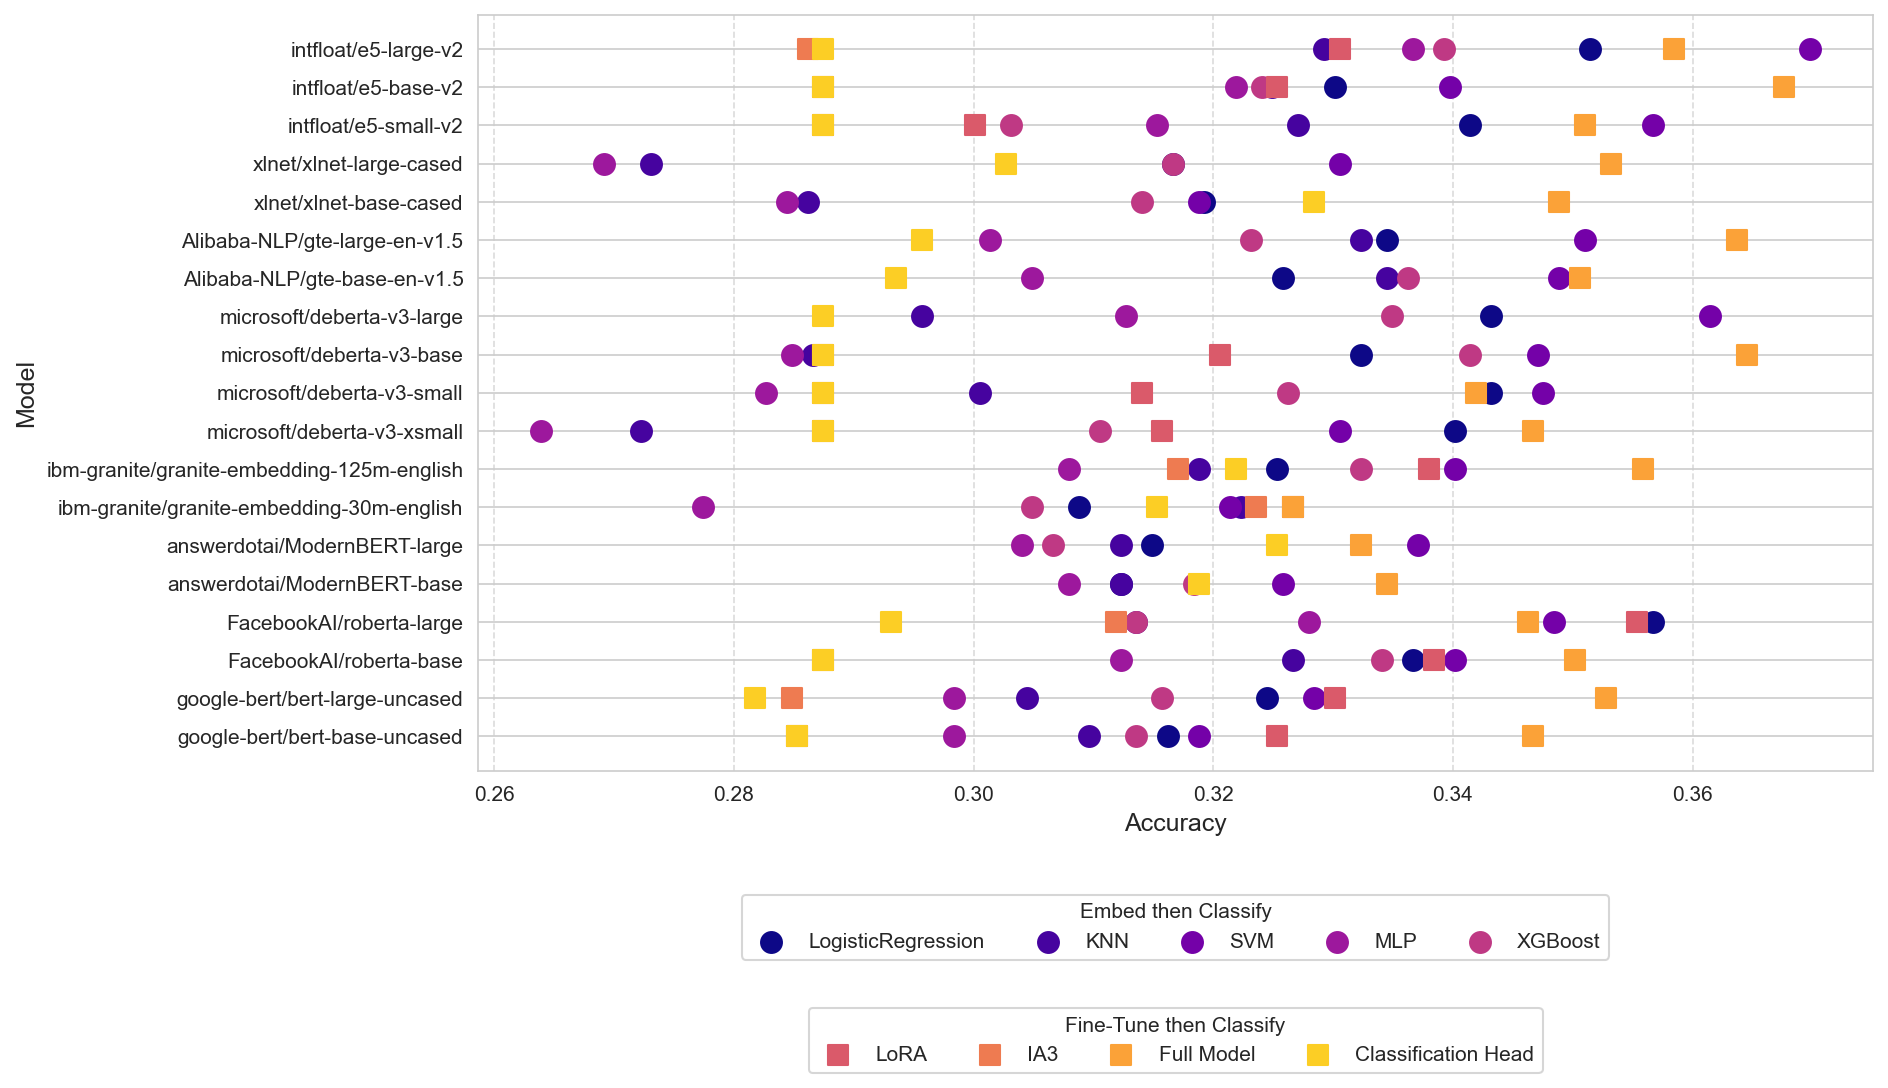
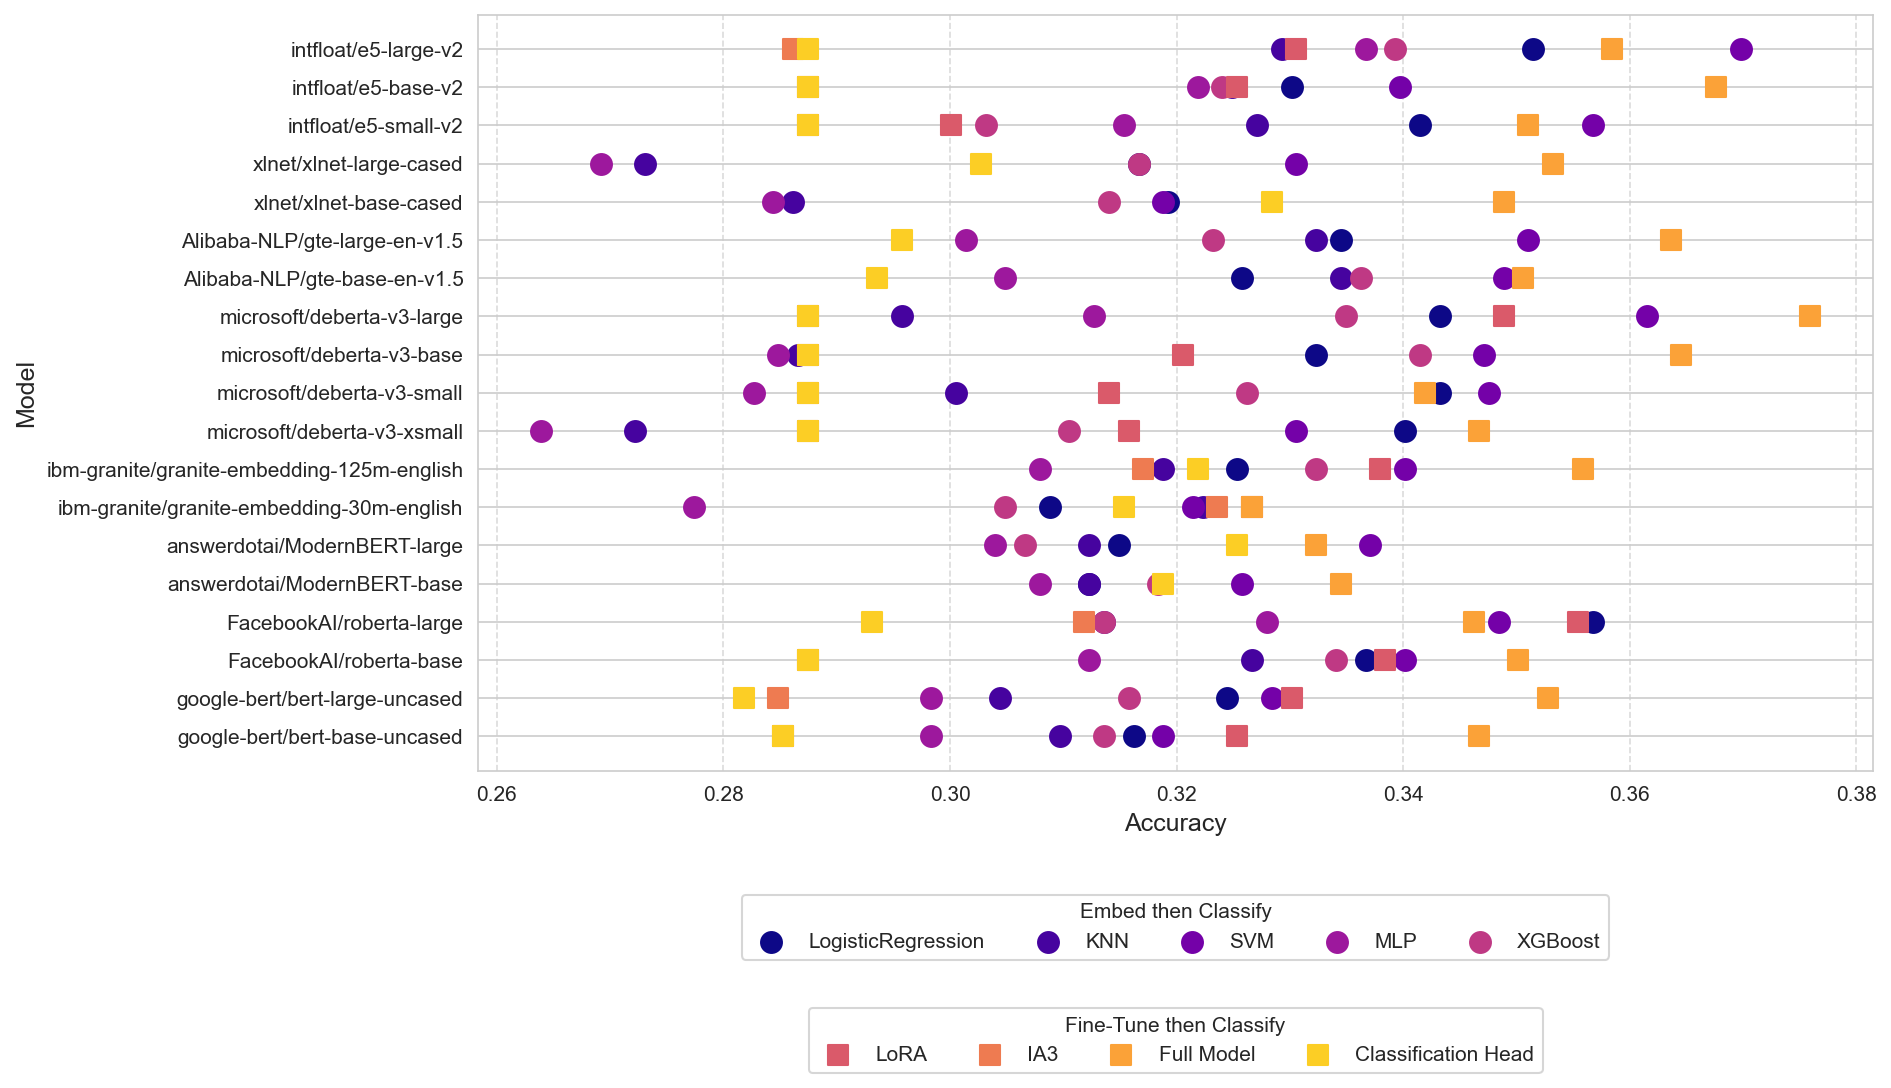
Add deberta results and update visualizaitons

diff --git a/Code/visualizations.py b/Code/visualizations.py
@@ -68,21 +68,21 @@ def plot_metric_comparison(embed_results, finetune_results, metric, output_path,
 sns.set_style("whitegrid")
 
 metrics = ['Accuracy', 'F1_Micro', 'F1_Macro', 'F1_Weighted']
-# dataset_names = ['Government_Documents', 'Hate_Speech', 'Liar2']
-dataset_names = ['Liar2']
+dataset_names = ['Government_Documents', 'Hate_Speech', 'Liar2']
+
 
 
 
 for metric in metrics:
     for dataset_name in dataset_names:
         os.makedirs(f'Results/{dataset_name}/images', exist_ok=True)
-        embed_results = pd.read_csv(f'Results/{dataset_name}/embedding_classification_results_with_justification.csv')
-        finetune_results = pd.read_csv(f'Results/{dataset_name}/fine_tuning_classification_results_with_justification.csv')
+        embed_results = pd.read_csv(f'Results/{dataset_name}/embedding_classification_results.csv')
+        finetune_results = pd.read_csv(f'Results/{dataset_name}/fine_tuning_classification_results.csv')
         plot_metric_comparison(
             embed_results,
             finetune_results,
             metric,
-            f'Results/{dataset_name}/images/classification_{metric.lower()}_comparison_with_justification.png',
+            f'Results/{dataset_name}/images/classification_{metric.lower()}_comparison.png',
             dataset_name
         )
 
